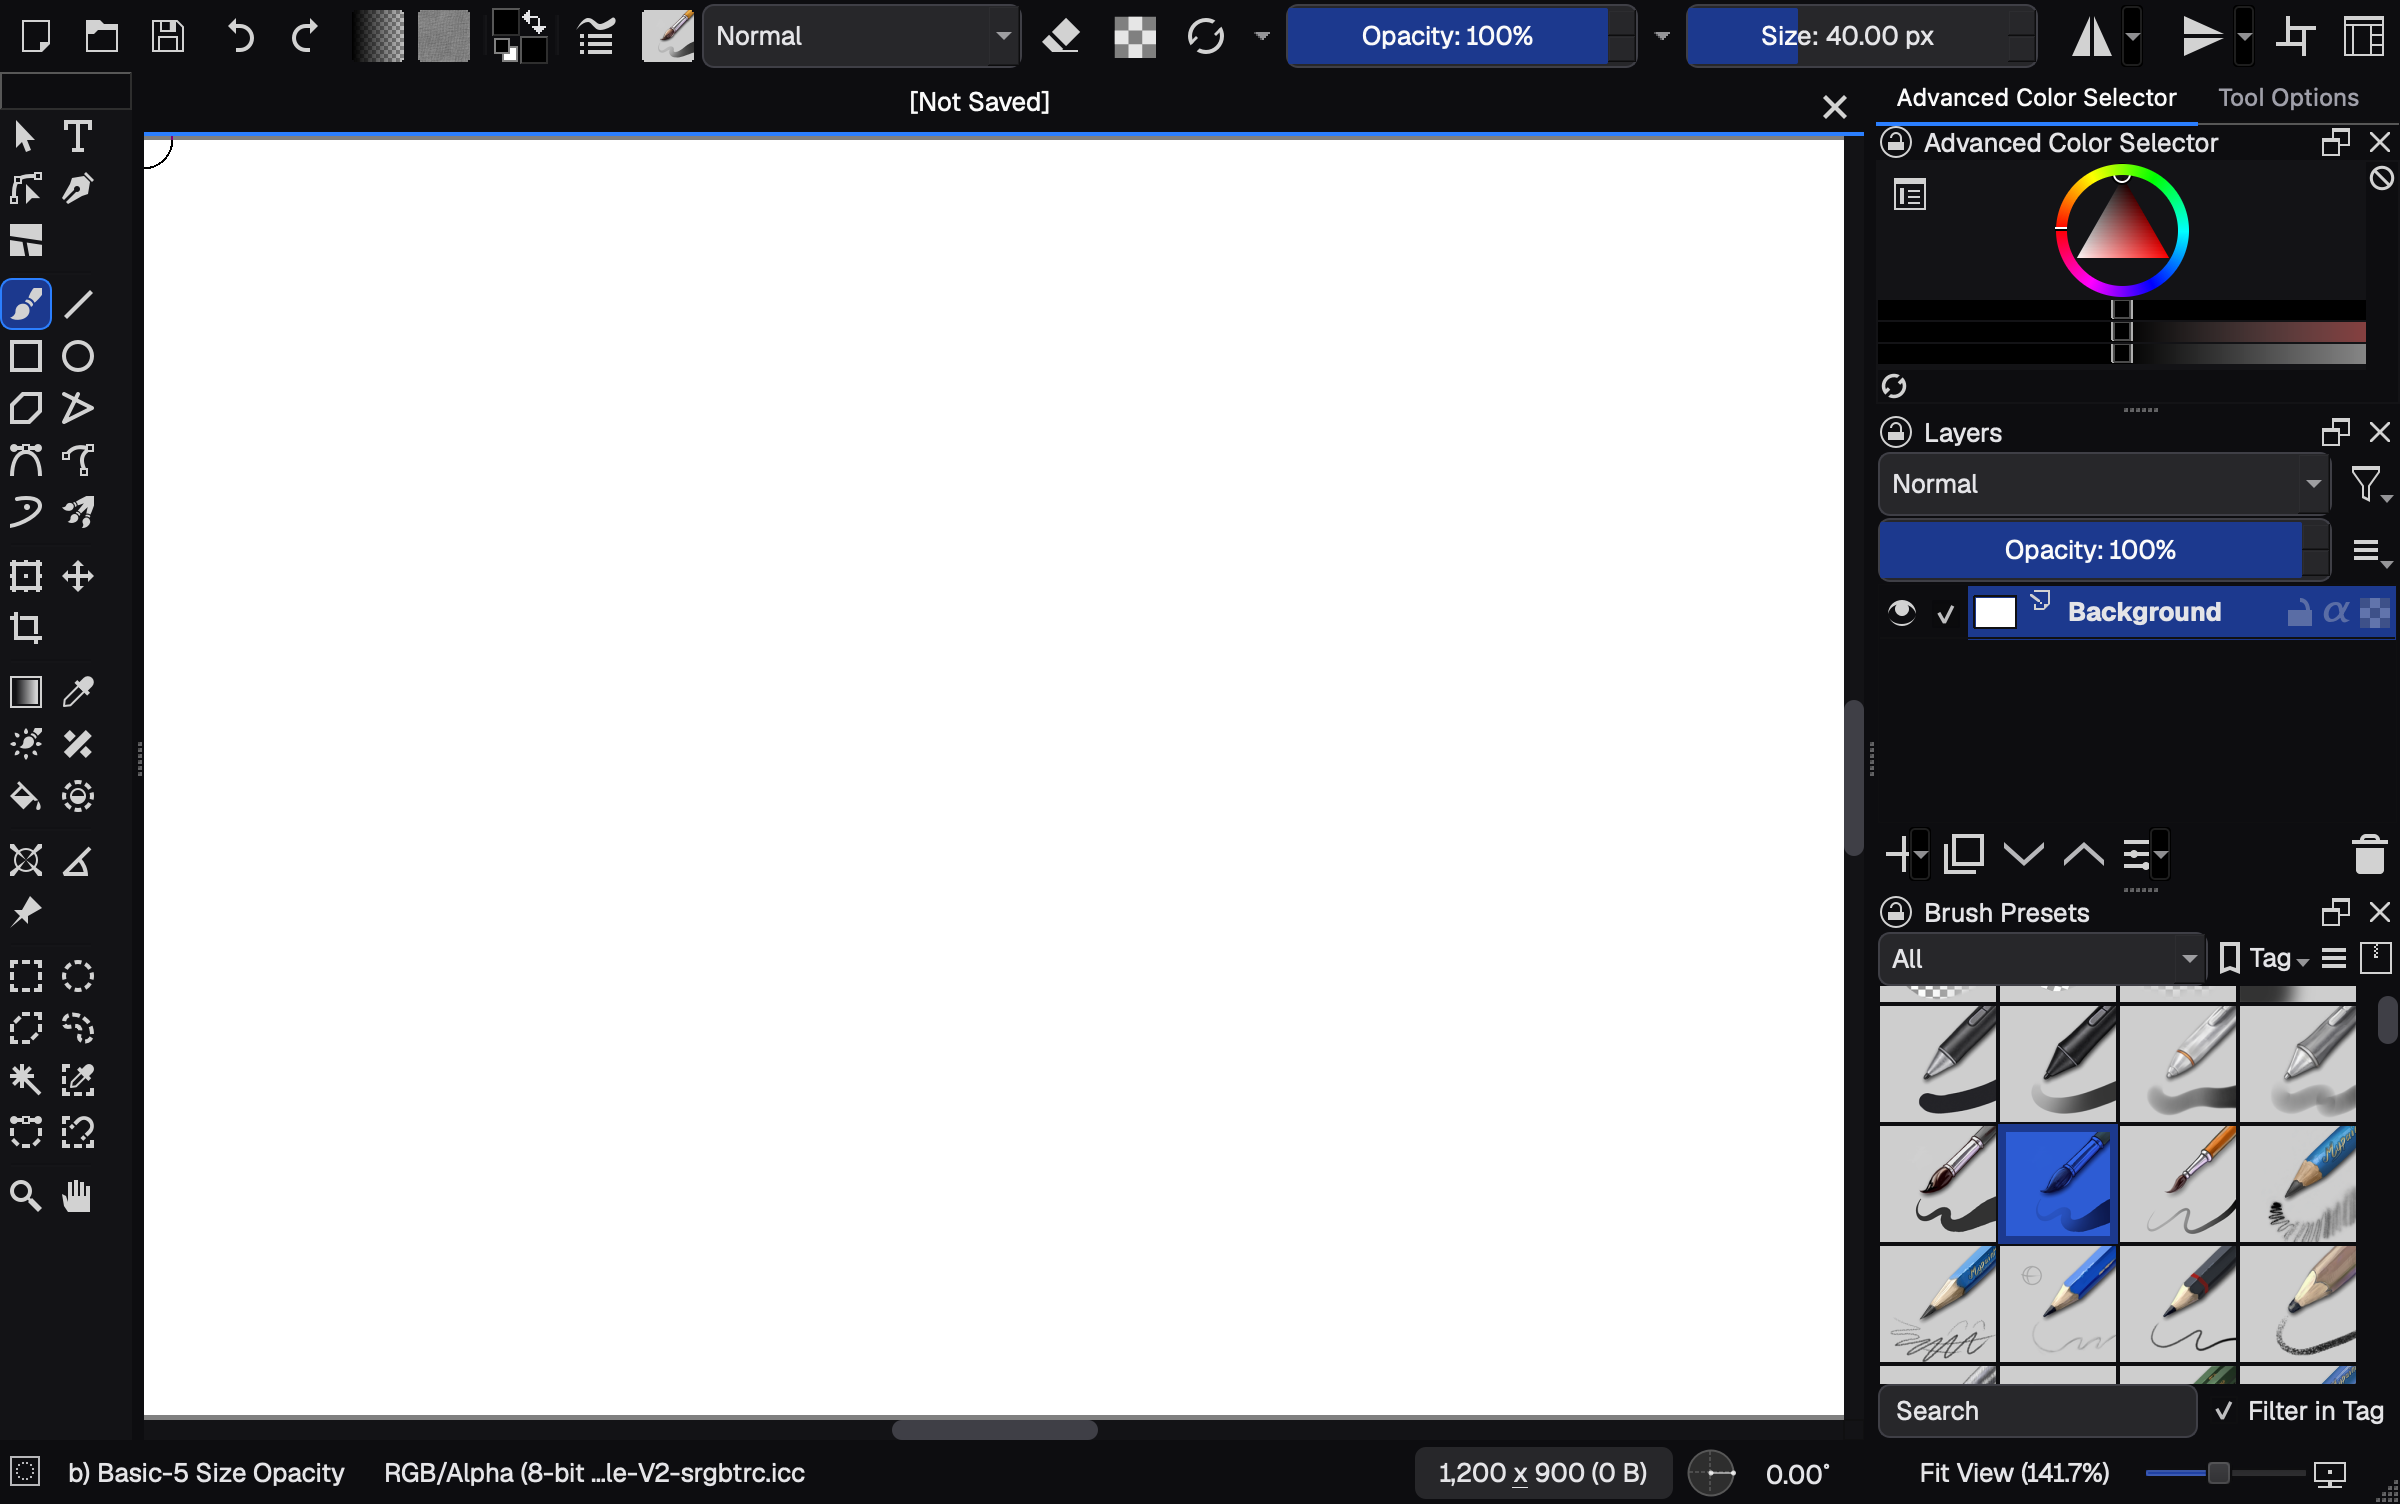
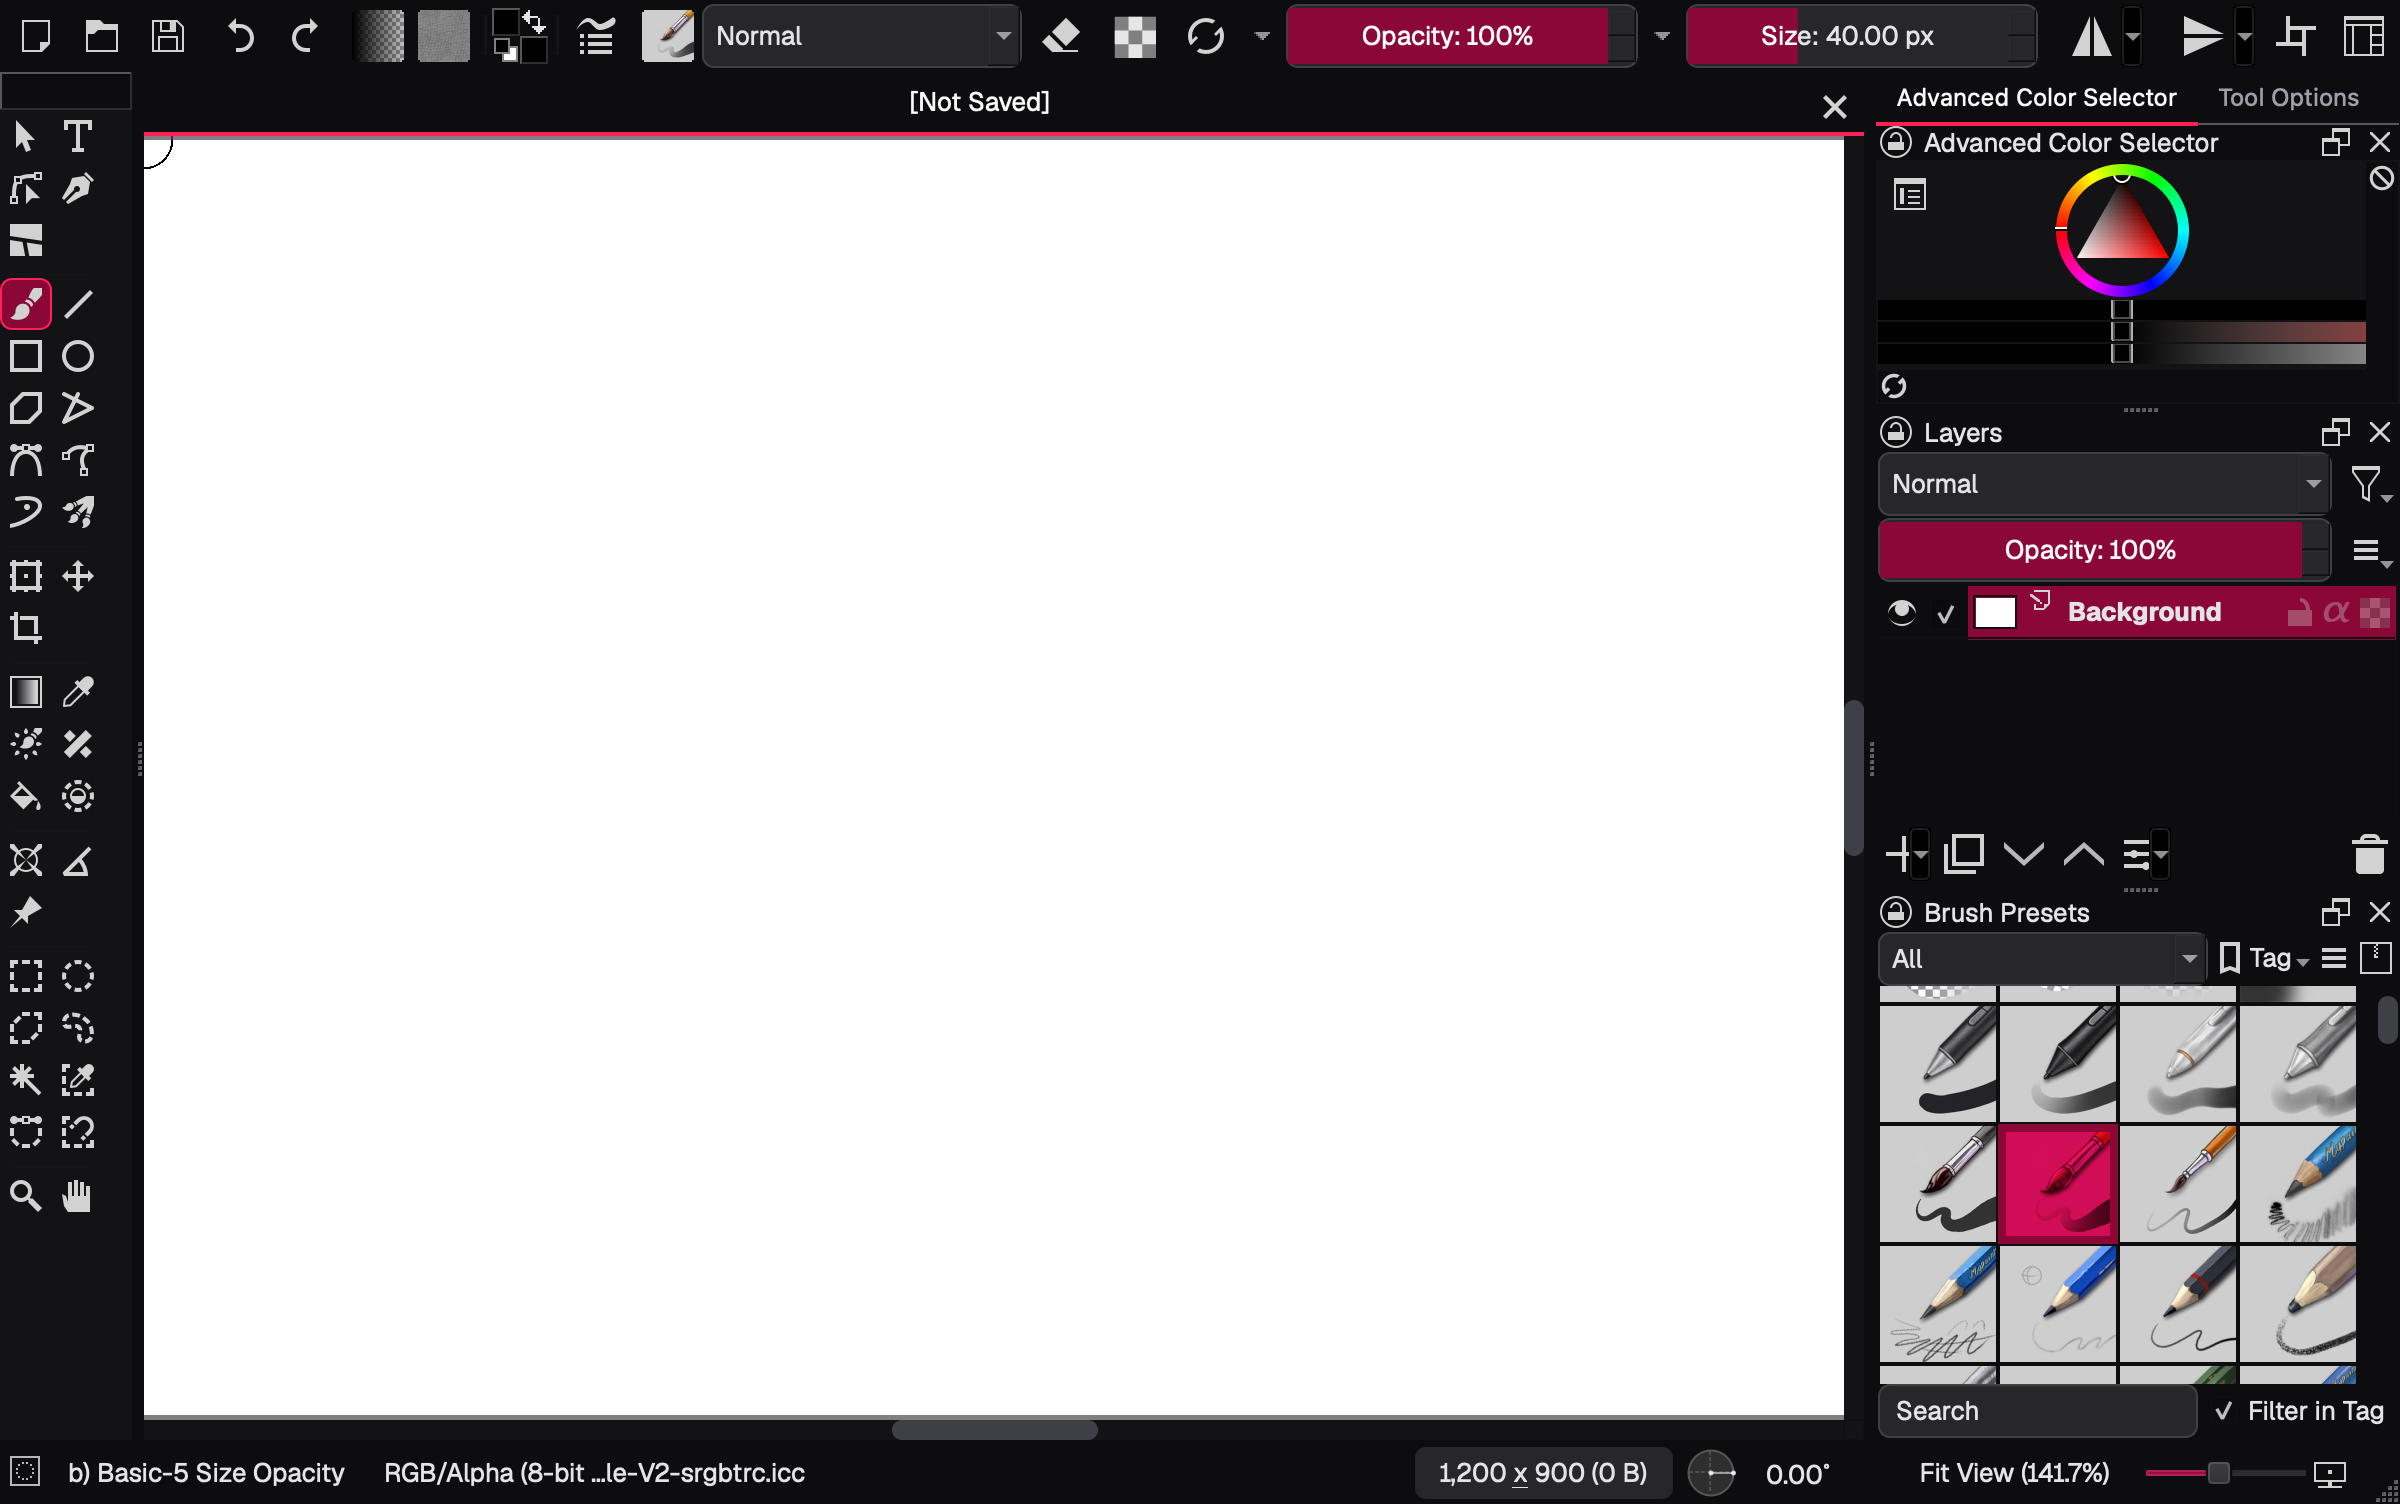
Rename project to Zinc and switch the accent to rose

diff --git a/tests/test_blender_package.py b/tests/test_blender_package.py
@@ -8,19 +8,19 @@ from build.blender_package import render_manifest, stage_blender_addon
 PROJECT_ROOT = Path(__file__).parent.parent
 
 META = {
-    "id": "uikit_graphite",
-    "name": "UI Kit Graphite",
-    "tagline": "Modern graphite and blue theme built on Tailwind zinc",
+    "id": "uikit_zinc",
+    "name": "UI Kit Zinc",
+    "tagline": "Modern zinc and rose theme built on Tailwind colors",
     "version": "0.1.0",
     "maintainer": "Brian <brianlai30@outlook.com>",
 }
 
 EXPECTED = """\
 schema_version = "1.0.0"
-id = "uikit_graphite"
+id = "uikit_zinc"
 version = "0.1.0"
-name = "UI Kit Graphite"
-tagline = "Modern graphite and blue theme built on Tailwind zinc"
+name = "UI Kit Zinc"
+tagline = "Modern zinc and rose theme built on Tailwind colors"
 maintainer = "Brian <brianlai30@outlook.com>"
 type = "theme"
 tags = ["Dark"]
@@ -61,10 +61,10 @@ def test_addon_manifest_has_type_and_tags():
 
 def test_theme_manifest_is_unchanged_by_defaults():
     meta = {
-        "id": "uikit_graphite",
+        "id": "uikit_zinc",
         "version": "0.1.1",
-        "name": "UI Kit Graphite",
-        "tagline": "Modern graphite and blue theme built on Tailwind zinc",
+        "name": "UI Kit Zinc",
+        "tagline": "Modern zinc and rose theme built on Tailwind colors",
         "maintainer": "Someone <someone@example.com>",
     }
     text = render_manifest(meta)

diff --git a/tests/test_krita_package.py b/tests/test_krita_package.py
@@ -35,7 +35,7 @@ def test_zip_has_the_descriptor_and_package(archive):
 def test_zip_has_generated_and_bundled_assets(archive):
     _, handle = archive
     names = set(handle.namelist())
-    assert "uikit_theme/assets/UIKitGraphite.colors" in names
+    assert "uikit_theme/assets/UIKitZinc.colors" in names
     assert "uikit_theme/assets/style.qss" in names
     assert "uikit_theme/assets/GeistUIKit-Variable.ttf" in names
     assert "uikit_theme/assets/OFL-Geist.txt" in names
@@ -66,5 +66,5 @@ def test_stylesheet_has_no_leftover_placeholders(archive):
 
 def test_scheme_is_named_after_the_package(archive):
     _, handle = archive
-    text = handle.read("uikit_theme/assets/UIKitGraphite.colors").decode("utf-8")
-    assert "Name=UI Kit Graphite" in text
+    text = handle.read("uikit_theme/assets/UIKitZinc.colors").decode("utf-8")
+    assert "Name=UI Kit Zinc" in text

diff --git a/build/krita_package.py b/build/krita_package.py
@@ -44,7 +44,7 @@ def stage_krita_plugin(root: Path, tokens: Tokens, stage: Path) -> dict:
 
     base = (root / "krita" / "theme" / "base.colors").read_text(encoding="utf-8")
     template = (root / "krita" / "theme" / "style.qss.template").read_text(encoding="utf-8")
-    _write_text(assets / "UIKitGraphite.colors", generate_scheme(base, tokens))
+    _write_text(assets / "UIKitZinc.colors", generate_scheme(base, tokens))
     _write_text(assets / "style.qss", render_qss(template, tokens))
     for name in FONT_FILES:
         shutil.copy2(root / FONT_SOURCE / name, assets / name)

diff --git a/build/blender_package.py b/build/blender_package.py
@@ -64,7 +64,7 @@ def build_blender_theme(root: Path, tokens: Tokens) -> Path:
     stage.mkdir(parents=True)
 
     base_xml = (root / "blender" / "theme" / "base_theme.xml").read_text(encoding="utf-8")
-    write_text(stage / "graphite.xml", generate_theme(base_xml, tokens))
+    write_text(stage / "zinc.xml", generate_theme(base_xml, tokens))
     write_text(stage / "blender_manifest.toml", render_manifest(tokens.meta))
 
     output = root / "dist"

diff --git a/krita/plugin/uikit_theme/theme.py b/krita/plugin/uikit_theme/theme.py
@@ -37,7 +37,7 @@ def _read_scheme(path: str) -> dict:
 
 
 def build_palette(base: QPalette) -> QPalette:
-    sections = _read_scheme(os.path.join(ASSETS, "UIKitGraphite.colors"))
+    sections = _read_scheme(os.path.join(ASSETS, "UIKitZinc.colors"))
     palette = QPalette(base)
     for section, key, role in ROLE_MAP:
         red, green, blue = (int(part) for part in sections[section][key].split(","))

diff --git a/tests/test_krita_scheme.py b/tests/test_krita_scheme.py
@@ -69,8 +69,8 @@ def test_status_colors(scheme):
 
 
 def test_scheme_is_named_after_the_package(scheme):
-    assert scheme["General"]["Name"] == "UI Kit Graphite"
-    assert scheme["General"]["ColorScheme"] == "UI Kit Graphite"
+    assert scheme["General"]["Name"] == "UI Kit Zinc"
+    assert scheme["General"]["ColorScheme"] == "UI Kit Zinc"
 
 
 def test_output_has_lf_endings_only():

diff --git a/build/krita_scheme.py b/build/krita_scheme.py
@@ -3,7 +3,7 @@ from __future__ import annotations
 from build.colors import to_rgb
 from build.tokens import Tokens
 
-SCHEME_NAME = "UI Kit Graphite"
+SCHEME_NAME = "UI Kit Zinc"
 
 # Shared by Colors:Window and Colors:Complementary.
 WINDOW = {

diff --git a/README.md b/README.md
@@ -1,6 +1,6 @@
 # UI Kit
 
-A modern, Tailwind-based look for Blender 5.2 and Krita 5.3. Colors, spacing, and fonts are generated from one `tokens/tokens.json`, so both apps share the same Graphite palette (zinc grays with a blue accent). Built with Python, PyQt5 (inside Krita), and the Blender extension system.
+A modern, Tailwind-based look for Blender 5.2 and Krita 5.3. Colors, spacing, and fonts are generated from one `tokens/tokens.json`, so both apps share the same Zinc palette (Tailwind zinc grays with a rose accent). Built with Python, PyQt5 (inside Krita), and the Blender extension system.
 
 ![Krita with the theme](docs/images/krita.png)
 
@@ -8,18 +8,18 @@ It doesn't fork or patch either app, and the default keymaps are untouched. Noth
 
 ## What's in it
 
-- Blender theme (`uikit_graphite`): recolors the interface, panels, widgets, and editor backgrounds
+- Blender theme (`uikit_zinc`): recolors the interface, panels, widgets, and editor backgrounds
 - Blender add-on (`uikit_declutter`): hides tabs, panels, and workspaces by feature group (aimed at game asset work), and sets the fonts
 - Krita plugin (`uikit_theme`): palette, stylesheet, fonts, and a command palette
 
-Colors only come from the Tailwind palette (zinc, blue, red, amber, green). `zinc-935` and `zinc-915` are interpolated between zinc-950 and zinc-900 for the darkest surfaces.
+Colors only come from the Tailwind palette (zinc, rose, red, amber, green, and blue for Blender's Z axis). `zinc-935` and `zinc-915` are interpolated between zinc-950 and zinc-900 for the darkest surfaces.
 
 ## Install
 
 Blender (5.2 or newer), once for each zip:
 
 1. Open Preferences > Get Extensions, then the dropdown at the top right > Install from Disk.
-2. Pick `uikit_graphite-0.1.1.zip` (the theme) or `uikit_declutter-0.1.0.zip` (the add-on).
+2. Pick `uikit_zinc-0.2.0.zip` (the theme) or `uikit_declutter-0.1.0.zip` (the add-on).
 3. Enable the theme under Preferences > Themes, or the add-on under Preferences > Add-ons, if Blender hasn't already.
 
 The add-on has one checkbox per feature group in its preferences:
@@ -74,7 +74,7 @@ Known limits:
 - Blender icons aren't replaced (they're compiled into the app)
 - The Blender theme only covers the interface. Viewport selection colors, node colors, and animation colors are still Blender's defaults
 - Blender context menus open under the cursor (not configurable)
-- In Krita the selected layer row stays a brighter blue, and docker title bars aren't restyled
+- In Krita the docker title bars aren't restyled
 
 ## License
 
